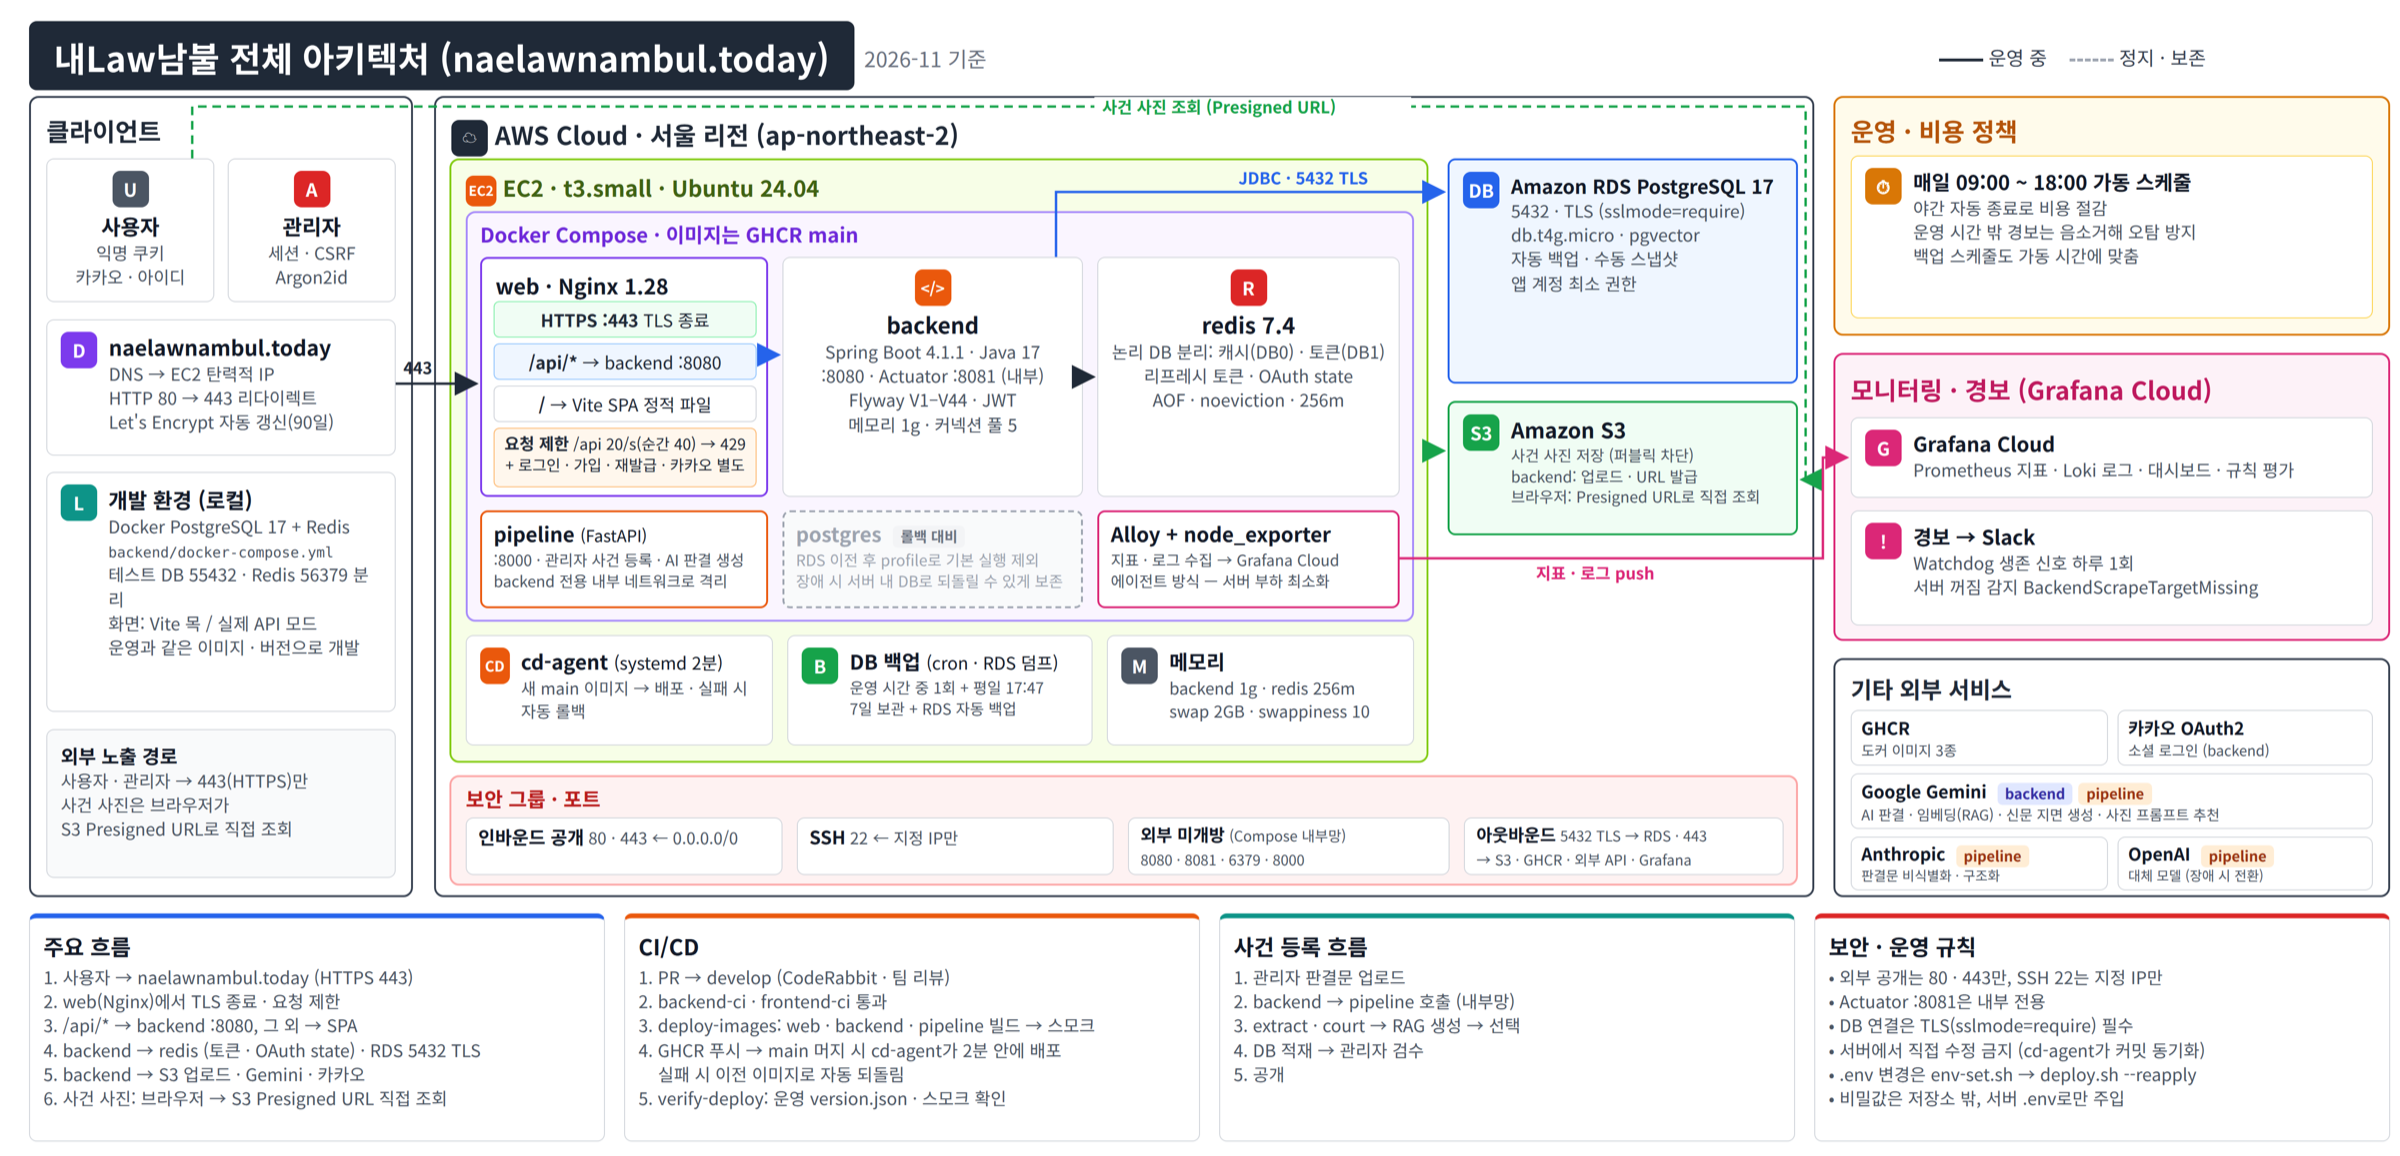
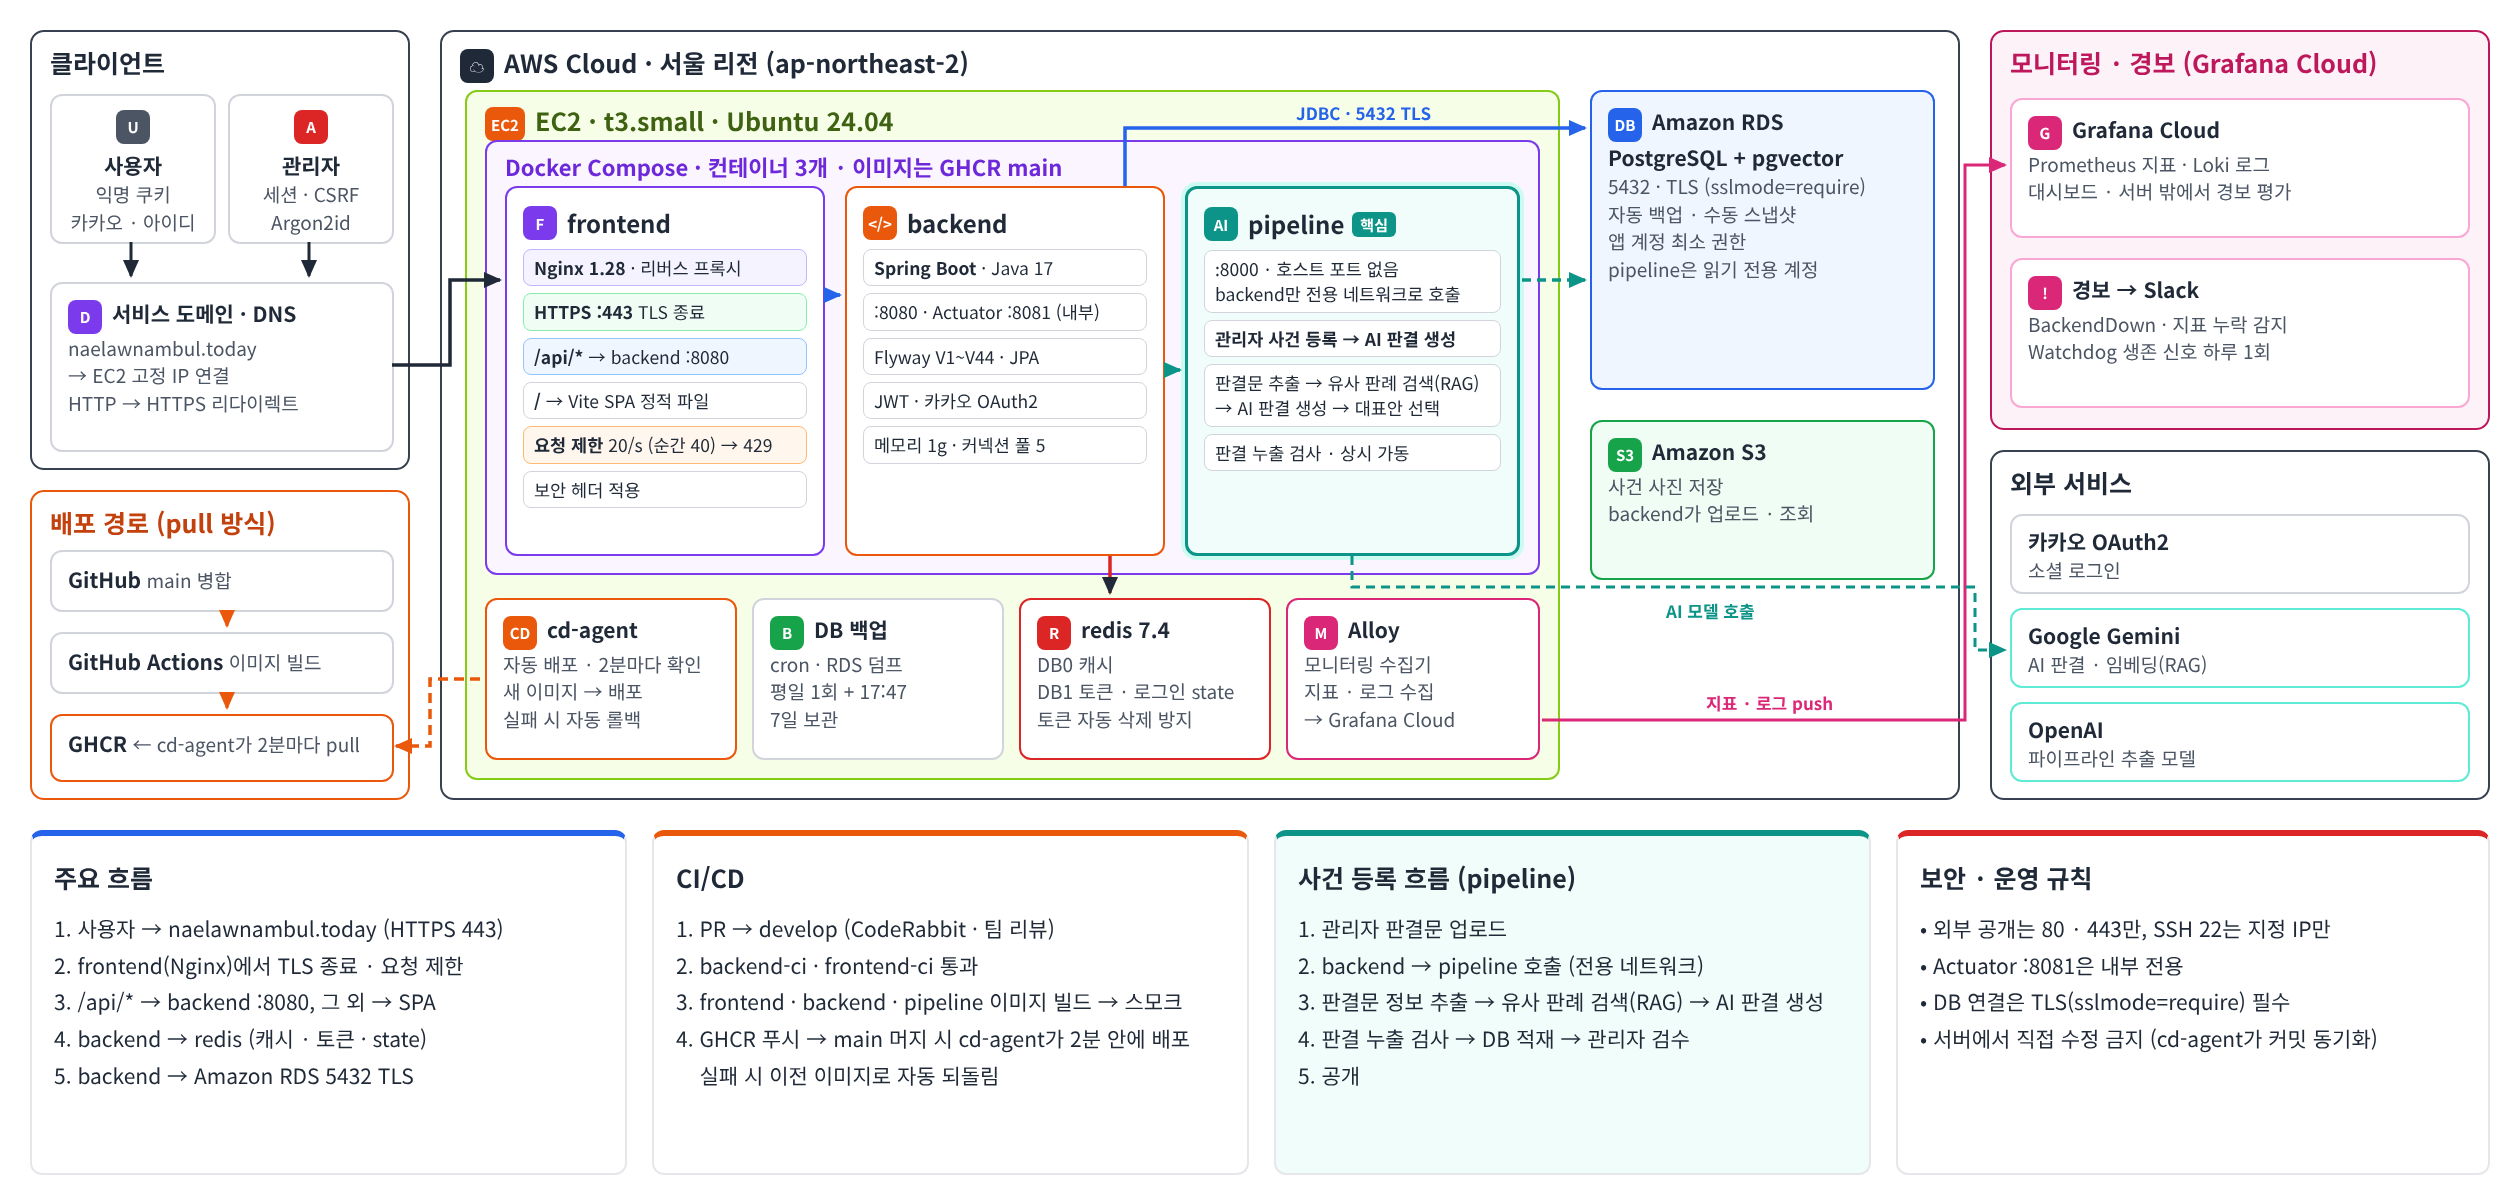
feat: 조선호텔 실무 프로젝트 추가, 아키텍처 이미지를 포트폴리오 최종본으로 교체
Claude-Session: https://claude.ai/code/session_01ANWqfuLsUykQoqgPL56uav

Changed region(s): [[0.0, 0.0, 1.0, 0.9654]]

diff --git a/index.html b/index.html
@@ -283,15 +283,7 @@ footer p{margin:6px 0}
           <li>금융권·공공기관·대기업 고객사 운영 이슈 대응: 로그·쿼리 분석으로 장애 원인 파악 및 패치</li>
           <li>파트 내 이슈 배분·검토, 신규 입사자와 고객사 대상 웹 리포팅 교육</li>
         </ul>
-        <div class="card" style="margin-top:14px">
-          <div class="small" style="font-weight:700;margin-bottom:6px">대표 프로젝트 · 조선호텔 사전 예약·고객 정보 시스템 <span class="muted" style="font-weight:400">(메인 담당 · Java, Oracle, WebLogic)</span></div>
-          <ul class="clean small">
-            <li>요구사항 미팅부터 시연까지 직접 진행하며 6개월간 개발, 오픈 후 유지보수 담당</li>
-            <li>스케줄러로 투숙 3일 전 안내 문자 발송, 1일 전에는 미완료 고객에게만 재발송하고 중복 발송 방지</li>
-            <li>외부망 사전 예약 데이터를 내부망 고객 정보 DB로 연계, 적용 호텔을 6곳에서 9곳으로 확대</li>
-            <li><b>성과</b>: 조선호텔 9개 지점 전체 도입. 사전 예약 고객은 현장 작성 없이 바로 입실해 프런트 업무 부담 감소</li>
-          </ul>
-        </div>
+        <p class="small" style="margin:10px 0 0">대표 프로젝트: <a href="#josun">조선호텔 사전 예약·고객 정보 시스템 (메인 담당) →</a></p>
       </div>
       <div class="tl">
         <div class="when">2025.05</div>
@@ -367,7 +359,7 @@ footer p{margin:6px 0}
     </article>
 
     <!-- 프로젝트 2 -->
-    <article class="project">
+    <article class="project" id="matcheat">
       <div class="project-head">
         <div>
           <div class="muted small">Project 2</div>
@@ -422,6 +414,65 @@ footer p{margin:6px 0}
           <div class="result">payment_id 유니크 제약으로 결제 1건당 리뷰 1개를 DB에서 보장</div>
           <div class="result">리뷰 가능 여부를 배치 확인 API(IN 쿼리 1회)로 처리해 N+1 방지</div>
           <div class="result">응답 DTO에서 계정 ID 노출 제거, 상품 소유자 검증 추가</div>
+        </div>
+      </div>
+    </article>
+
+    <!-- 실무 프로젝트 -->
+    <article class="project" id="josun">
+      <div class="project-head">
+        <div>
+          <div class="muted small">실무 프로젝트 · 유비스톰</div>
+          <h3>조선호텔 사전 예약·고객 정보 시스템</h3>
+        </div>
+        <div class="badges"><span class="badge">메인 담당</span><span class="badge">9개 지점 전체 도입</span></div>
+      </div>
+      <div class="card">
+        <p style="margin:0 0 18px">호텔 투숙객이 방문 전에 모바일로 사전 예약 정보를 입력하고, 그 데이터를 내부 고객 정보 시스템과 연계하는 시스템입니다. 요구사항 미팅부터 오픈 후 유지보수까지 메인 담당으로 맡았습니다.</p>
+        <dl class="meta">
+          <dt>기간</dt><dd>사전 예약 시스템 개발 6개월, 오픈 이후 유지보수와 고도화</dd>
+          <dt>역할</dt><dd>메인 담당 (요구사항 협의 · 개발 · 시연 · 운영)</dd>
+          <dt>기술</dt><dd>Java, Oracle, WebLogic, Linux</dd>
+        </dl>
+
+        <div class="grid-2" style="margin-top:22px">
+          <div>
+            <h3 style="font-size:16px">예약 안내 문자 자동 발송</h3>
+            <ul class="clean small muted">
+              <li>스케줄러로 매일 오전 10시, 투숙 3일 전 고객에게 안내 문자 발송</li>
+              <li>1일 전에는 사전 예약을 마치지 않은 고객에게만 재발송</li>
+              <li>같은 고객에게 중복 발송되지 않도록 방지</li>
+            </ul>
+          </div>
+          <div>
+            <h3 style="font-size:16px">사전 예약 화면 · 저장 로직</h3>
+            <ul class="clean small muted">
+              <li>모바일 이용 비중을 고려한 반응형 화면 구현</li>
+              <li>고객이 입력한 정보를 DB에 저장하는 로직 개발</li>
+            </ul>
+          </div>
+          <div>
+            <h3 style="font-size:16px">고객 정보 시스템 연계 · 고도화</h3>
+            <ul class="clean small muted">
+              <li>스케줄러 문자 발송 시 외부망 사전 예약 데이터를 내부망 고객 정보 DB에 저장하도록 연계</li>
+              <li>적용 호텔을 6곳에서 9곳으로 확대</li>
+              <li>고객 대상 문자·메일 발송 기능 추가</li>
+            </ul>
+          </div>
+          <div>
+            <h3 style="font-size:16px">고객사 협업</h3>
+            <ul class="clean small muted">
+              <li>요구사항 미팅부터 중간 시연까지 직접 기능을 설명하며 개발</li>
+              <li>오픈 이후 유지보수를 맡아 운영 이슈 대응</li>
+            </ul>
+          </div>
+        </div>
+
+        <div class="results">
+          <div class="result">조선호텔 9개 지점 전체 도입</div>
+          <div class="result">사전 예약 고객은 현장 정보 작성 없이 바로 입실</div>
+          <div class="result">사전 예약률 상승</div>
+          <div class="result">프런트 업무 부담 감소</div>
         </div>
       </div>
     </article>
